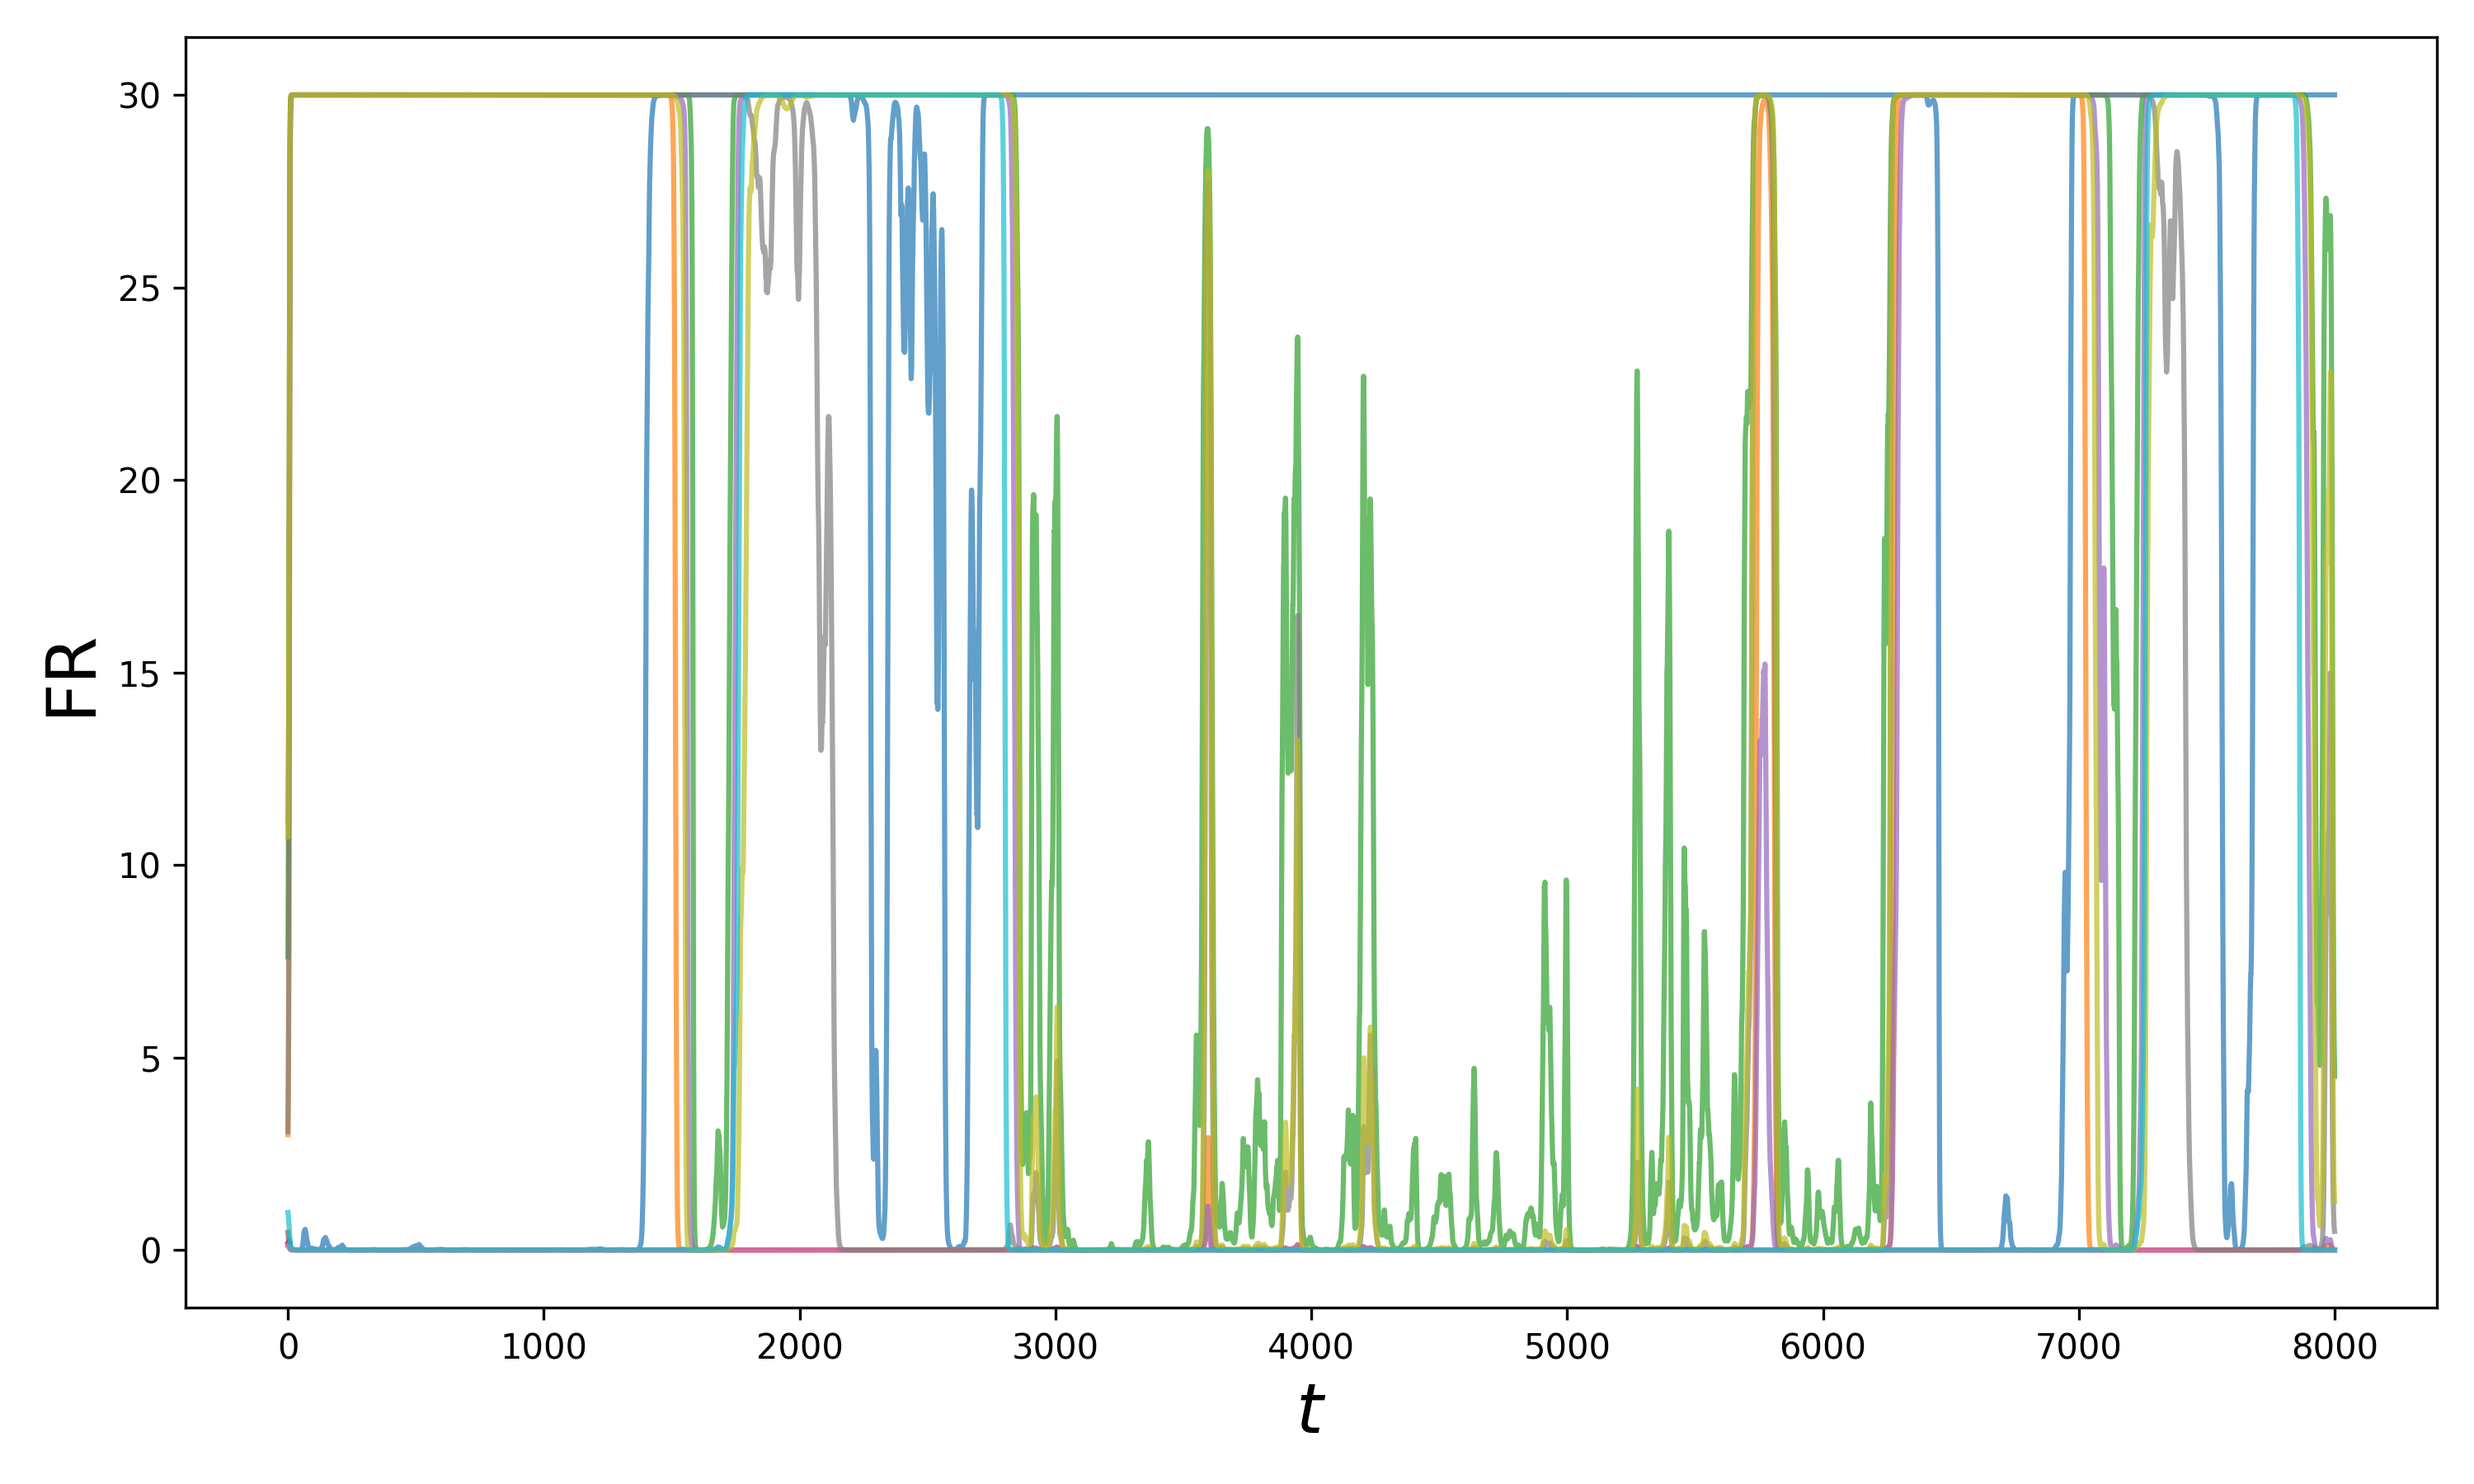
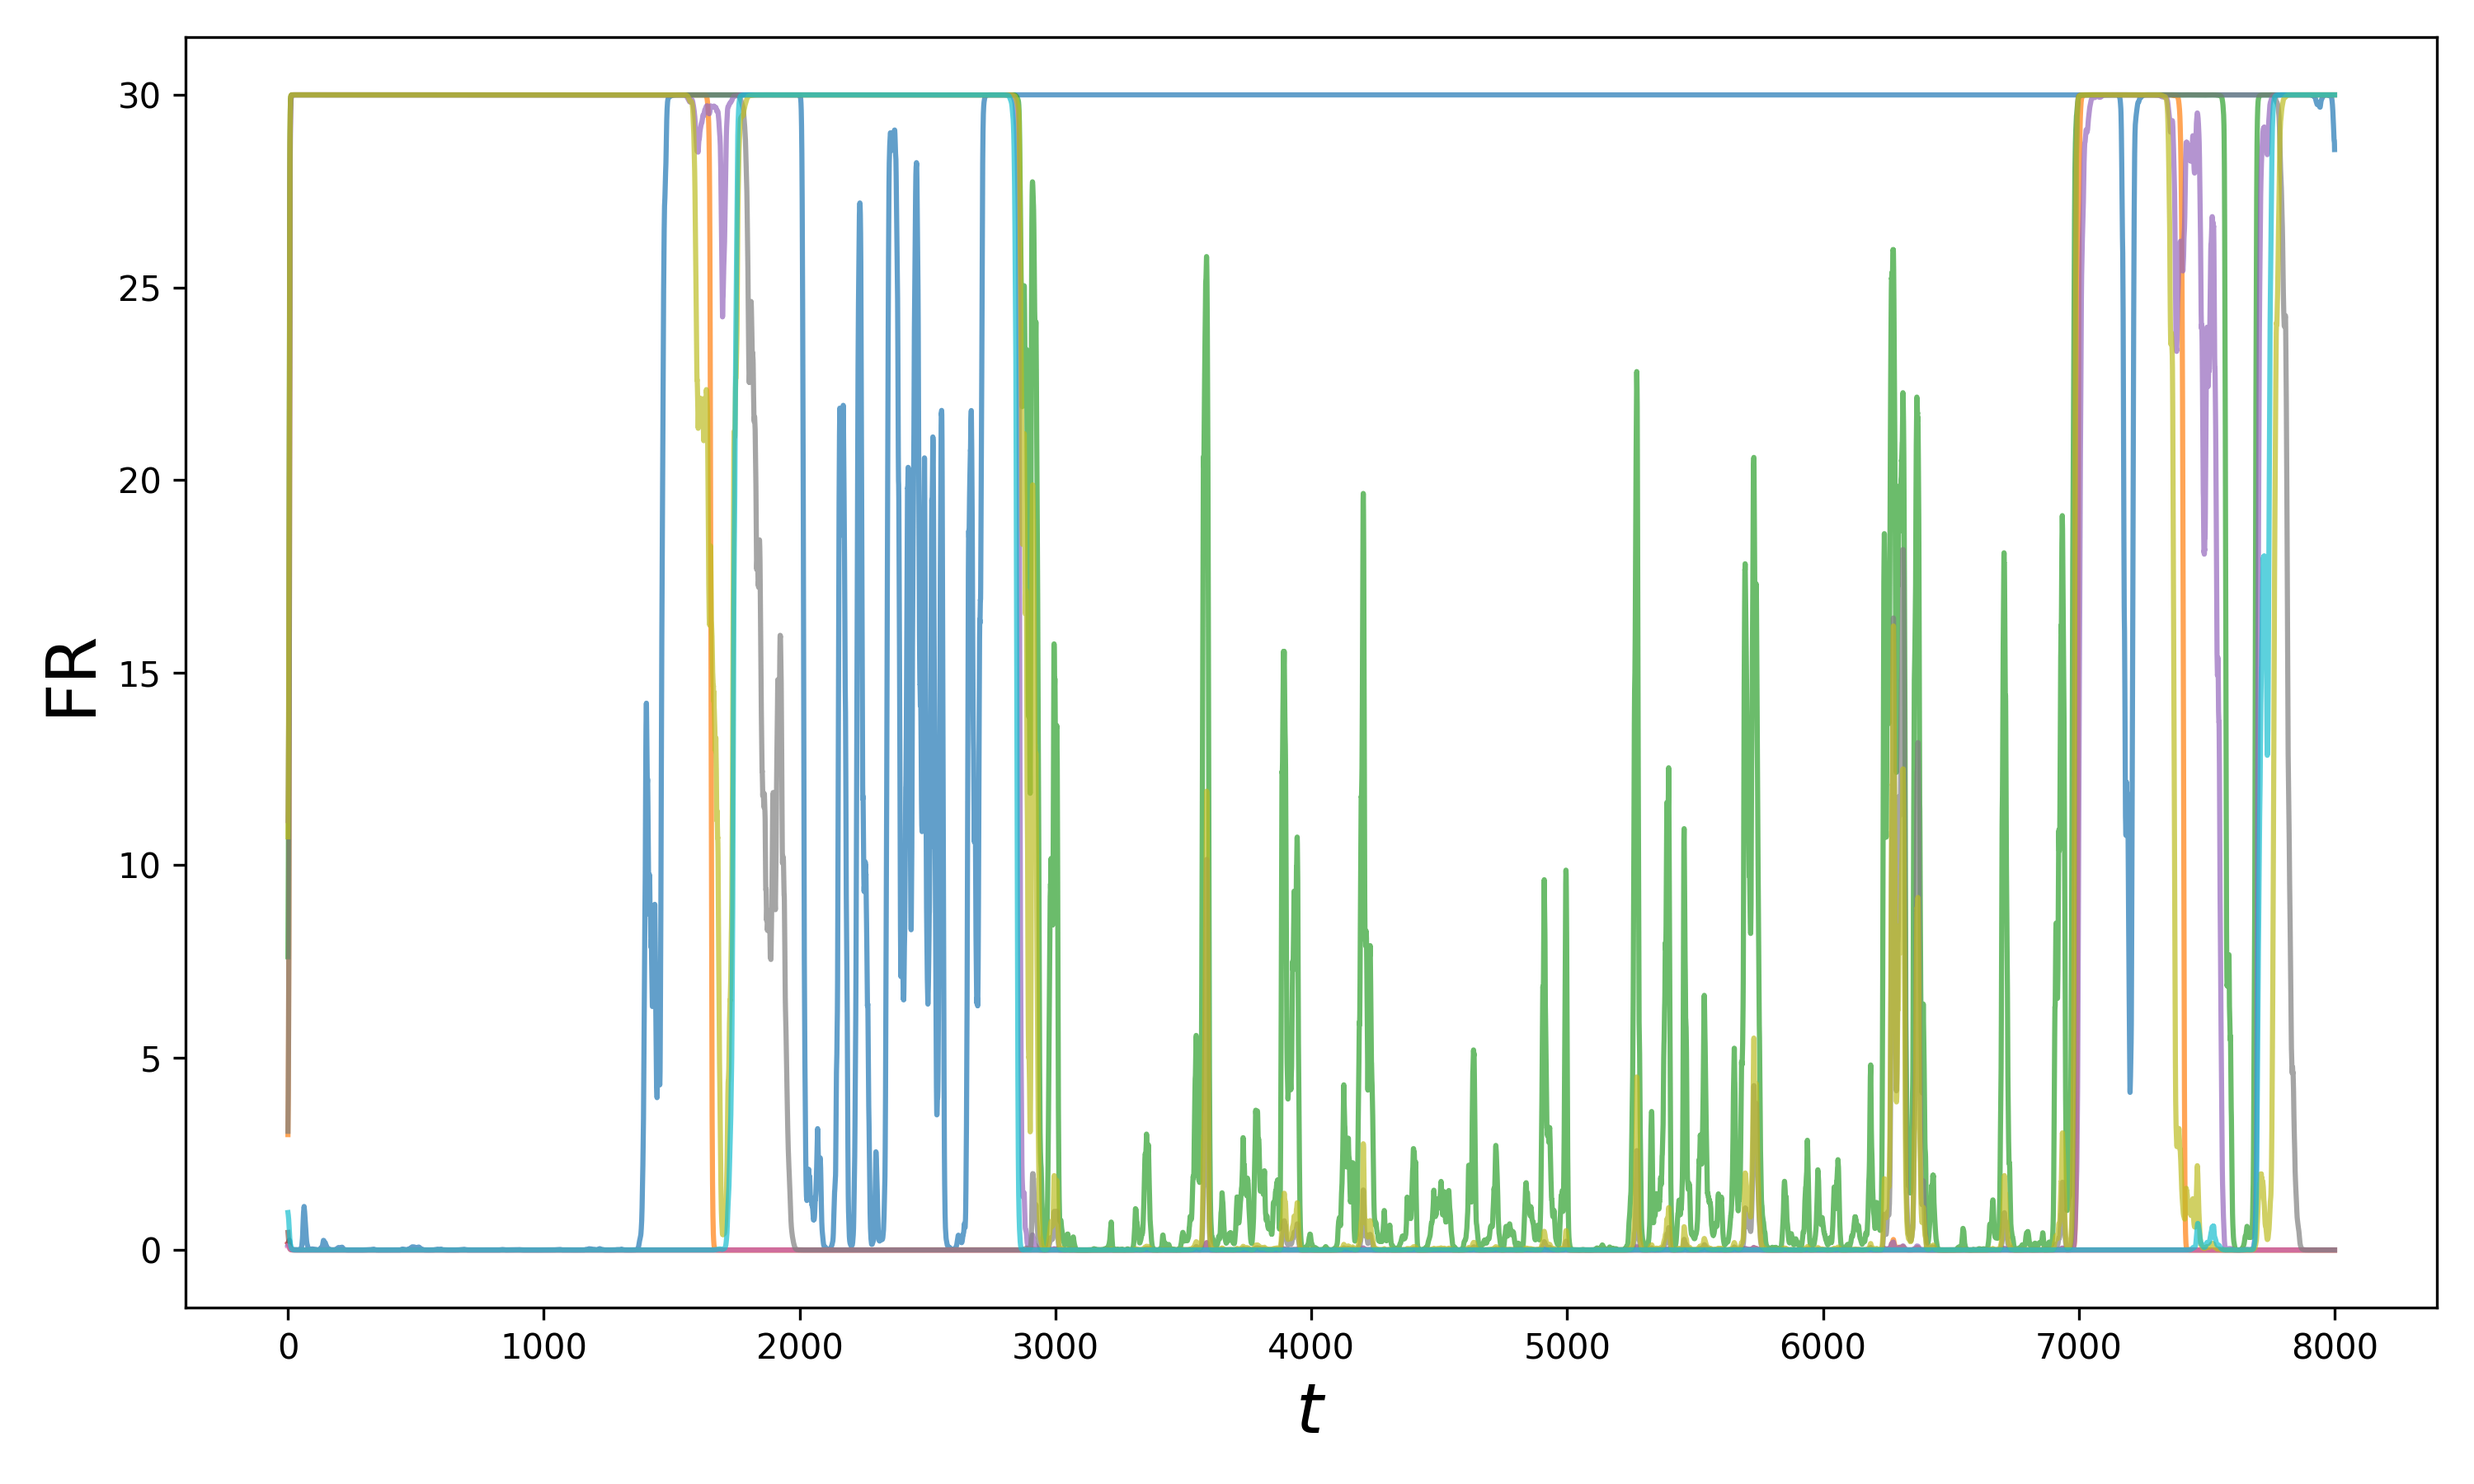
heun

Changed region(s): [[0.248, 0.0622, 0.961, 0.8711]]

diff --git a/src/correlation.py b/src/correlation.py
@@ -1,0 +1,121 @@
+"""
+Analyze the relationship between noise (ζ) and the variation of pattern overlaps using cross-correlation.
+Load ζ and firing rate files from disk, compute overlaps, and correlate with lag.
+"""
+
+import os
+import numpy as np
+import matplotlib.pyplot as plt
+from modules.dynamics import calculate_pattern_overlaps
+from modules.activation import sigmoid_function
+from parameters import (
+    N,
+    dt,
+    phi_beta,
+    phi_r_m,
+    phi_x_r,
+    g_q,
+    g_x,
+    use_numba,
+    use_g,
+    multiple_dir_name,
+    single_dir_name
+)
+
+# ----------------------------
+# Paths
+# ----------------------------
+patterns_path = os.path.join(os.path.dirname(__file__), "..", f'{single_dir_name}', 'npy', 'memory_patterns.npy')
+firing_rates_path = os.path.join(os.path.dirname(__file__), "..", f'{single_dir_name}', 'npy', 'firing_rates')
+zeta_path = os.path.join(os.path.dirname(__file__), "..", f'{single_dir_name}', 'npy', 'ou_process.npy')
+
+# ----------------------------
+# Phi and g function parameters
+# ----------------------------
+phi_params = {'r_m': phi_r_m, 'beta': phi_beta, 'x_r': phi_x_r}
+g_params = {'q_f': g_q, 'x_f': g_x}
+
+# ----------------------------
+# Load patterns
+# ----------------------------
+eta = np.load(patterns_path)
+
+# ----------------------------
+# Cross-correlation analysis using variation of overlaps
+# ----------------------------
+def cross_correlation_analysis(firing_dir, zeta_file, max_lag_ms=500, use_derivative=True):
+    """
+    Compute cross-correlation between zeta(t) and variation of pattern overlaps.
+    
+    Parameters
+    ----------
+    firing_dir : str
+        Directory containing firing rate files (.npy)
+    zeta_file : str
+        File containing zeta(t) array
+    max_lag_ms : int
+        Maximum lag to consider in milliseconds (will be converted using dt)
+    use_derivative : bool
+        If True, correlate ζ(t) with temporal derivative of overlaps
+    
+    Returns
+    -------
+    lags : np.ndarray
+        Lag vector in time units
+    corr_mean : np.ndarray
+        Cross-correlation averaged over all files
+    """
+    # load zeta
+    zeta = np.load(zeta_file)
+    
+    fnames = [f for f in os.listdir(firing_dir) if f.endswith(".npy")]
+    corr_all = []
+    
+    n_lag = int(max_lag_ms / (dt * 1000))  # convert ms to steps
+    lags = np.arange(-n_lag, n_lag + 1) * dt
+    
+    for fname in fnames:
+        firing = np.load(os.path.join(firing_dir, fname))
+        overlaps = calculate_pattern_overlaps(firing, eta, phi_params, g_params, use_numba=use_numba, use_g=use_g)
+        
+        # mean over patterns
+        overlaps_mean = overlaps.mean(axis=1)
+        
+        if use_derivative:
+            # temporal derivative to capture variation
+            overlaps_var = np.gradient(overlaps_mean, dt)
+        else:
+            overlaps_var = overlaps_mean
+        
+        # standardize
+        z_std = (zeta - np.mean(zeta)) / np.std(zeta)
+        o_std = (overlaps_var - np.mean(overlaps_var)) / np.std(overlaps_var)
+        
+        # full cross-correlation
+        corr = np.correlate(o_std, z_std, mode='full') / len(z_std)
+        
+        # select only lags within ±n_lag
+        center = len(corr) // 2
+        corr_all.append(corr[center - n_lag:center + n_lag + 1])
+    
+    # average across files
+    corr_mean = np.mean(np.stack(corr_all, axis=0), axis=0)
+    
+    return lags, corr_mean
+
+# ----------------------------
+# Plot
+# ----------------------------
+if __name__ == "__main__":
+    lags, corr_mean = cross_correlation_analysis(firing_rates_path, zeta_path, max_lag_ms=500, use_derivative=True)
+    
+    plt.figure(figsize=(8,4))
+    plt.plot(lags, corr_mean, color='b')
+    plt.axvline(0, color='k', linestyle='--', label='zero lag')
+    plt.xlabel("Lag [s]")
+    plt.ylabel("Cross-correlation")
+    plt.title("Average cross-correlation between ζ(t) and variation of pattern overlaps")
+    plt.grid(True)
+    plt.legend()
+    plt.show()
+# -----------------------------

diff --git a/src/modules/numba_dynamics.py b/src/modules/numba_dynamics.py
@@ -1,7 +1,7 @@
 """
 Numba-optimized neural network dynamics with stochastic Heun integration.
 Matches dynamics.py exactly: no interpolation of zeta.
-All arrays and computations are float32.
+All arrays and computations float32.
 """
 
 import numpy as np
@@ -78,14 +78,10 @@ def network_dynamics_brunel(u, W_S, W_A, tau, zeta_value, r_m, beta, x_r):
     return du_dt
 
 # -----------------------------
-# Stochastic Heun per mezzo-step
+# Stochastic Heun step (single-step)
 # -----------------------------
 @njit(cache=True)
 def heun_step(u, dt, W_S, W_A, tau, zeta_value, model_type, r_m, beta, x_r, dW=None):
-    """
-    Heun stochastic step for network dynamics (RK2).
-    For deterministic part, dW is ignored (kept for OU compatibility).
-    """
     du1 = network_dynamics_recanatesi(u, W_S, W_A, tau, zeta_value, r_m, beta, x_r) if model_type == 0 else \
           network_dynamics_brunel(u, W_S, W_A, tau, zeta_value, r_m, beta, x_r)
     u_predict = u + dt * du1
@@ -103,7 +99,7 @@ def ou_heun_step(z, dt_step, tau_zeta, zeta_bar, sigma_zeta, dW):
     return z_new
 
 # -----------------------------
-# Full network simulation (Heun stochastic)
+# Full network simulation (Heun single-step)
 # -----------------------------
 @njit(cache=True)
 def simulate_network_numba(W_S, W_A, initial_condition, n_steps, dt, tau,
@@ -123,26 +119,19 @@ def simulate_network_numba(W_S, W_A, initial_condition, n_steps, dt, tau,
         zeta_array[:] = np.float32(constant_zeta)
     else:
         zeta_array[0] = np.float32(zeta_bar)
-        half_dt = np.float32(0.5) * dt
-        sqrt_half_dt = np.sqrt(half_dt)
 
     for i in range(1, n_steps):
-        # --- compute zeta ---
         if use_ou:
-            dW1 = np.float32(np.random.normal(0.0, 1.0) * sqrt_half_dt)
-            dW2 = np.float32(np.random.normal(0.0, 1.0) * sqrt_half_dt)
-            z_mid = ou_heun_step(zeta_array[i-1], half_dt, tau_zeta, zeta_bar, sigma_zeta, dW1)
-            z_next = ou_heun_step(z_mid, half_dt, tau_zeta, zeta_bar, sigma_zeta, dW2)
+            dW = np.float32(np.random.normal(0.0, 1.0) * np.sqrt(dt))
+            z_n = zeta_array[i-1]
+            z_next = ou_heun_step(z_n, dt, tau_zeta, zeta_bar, sigma_zeta, dW)
             zeta_array[i] = z_next
-            zeta_n = zeta_array[i-1]
-            zeta_m = z_mid
+            zeta_n = z_n
         else:
             zeta_n = np.float32(constant_zeta)
-            zeta_m = np.float32(constant_zeta)
-            z_next = np.float32(constant_zeta)
+            z_next = zeta_n
             zeta_array[i] = z_next
 
-        # --- Heun for network dynamics ---
         u = heun_step(u, dt, W_S, W_A, tau, zeta_n, model_type, r_m, beta, x_r)
         u_hist[i, :] = u
 

diff --git a/src/modules/dynamics.py b/src/modules/dynamics.py
@@ -8,7 +8,7 @@ import matplotlib.pyplot as plt
 from modules.activation import sigmoid_function, relu_function, step_function
 
 # ---------------------------
-# Ornstein-Uhlenbeck Heun per mezzo-passo
+# Ornstein-Uhlenbeck Heun (single-step sHeun)
 # ---------------------------
 def _ou_heun_step(z, dt_step, tau_zeta, zeta_bar, sigma_zeta, dW):
     g = np.sqrt(np.float32(2.0)) * np.float32(sigma_zeta) / np.sqrt(np.float32(tau_zeta))
@@ -52,12 +52,14 @@ def network_dynamics_recanatesi(u, W_S, W_A, activation_fn, tau, zeta_value=1.0)
     du_dt = (-u + W_S @ phi_u + zeta_value * (W_A @ phi_u)) / tau
     return du_dt.astype(np.float32)
 
+
 def network_dynamics_brunel(u, W_S, W_A, activation_fn, tau, zeta_value=1.0):
     tau = np.float32(tau)
     zeta_value = np.float32(zeta_value)
     total_input = W_S @ u + zeta_value * (W_A @ u)
     du_dt = (-u + activation_fn(total_input)) / tau
     return du_dt.astype(np.float32)
+
 
 def network_dynamics(u, W_S, W_A, activation_fn, tau, zeta_value=1.0, model_type="recanatesi"):
     if model_type == "recanatesi":
@@ -130,16 +132,13 @@ def simulate_network(W_S,
         zeta_bar = np.float32(ou_params['zeta_bar'])
         sigma_zeta = np.float32(ou_params['sigma_zeta'])
         zeta_array[0] = zeta_bar
-        half_dt = 0.5 * dt
-        sqrt_half_dt = np.sqrt(half_dt).astype(np.float32)
 
     for i in range(1, n_steps):
         if use_ou:
-            dW1 = np.float32(np.random.normal(0.0, 1.0) * sqrt_half_dt)
-            dW2 = np.float32(np.random.normal(0.0, 1.0) * sqrt_half_dt)
+            # single-step stochastic Heun for OU (sHeun canonical): one Wiener increment per dt
+            dW = np.float32(np.random.normal(0.0, 1.0) * np.sqrt(dt))
             z_n = zeta_array[i-1]
-            z_mid = _ou_heun_step(z_n, half_dt, tau_zeta, zeta_bar, sigma_zeta, dW1)
-            z_next = _ou_heun_step(z_mid, half_dt, tau_zeta, zeta_bar, sigma_zeta, dW2)
+            z_next = _ou_heun_step(z_n, dt, tau_zeta, zeta_bar, sigma_zeta, dW)
             zeta_array[i] = z_next
             zeta_n = z_n
         else:
@@ -147,7 +146,7 @@ def simulate_network(W_S,
             z_next = zeta_n
             zeta_array[i] = z_next
 
-        # Heun per u
+        # Heun per u (deterministic Heun using zeta at n for predictor, zeta_next for corrector)
         k1 = network_dynamics(u, W_S, W_A, activation_fn, tau, zeta_value=zeta_n, model_type=model_type)
         u_pred = u + dt * k1
         k2 = network_dynamics(u_pred, W_S, W_A, activation_fn, tau, zeta_value=z_next, model_type=model_type)
@@ -250,3 +249,4 @@ def plot_network_dynamics(t, u, zeta, neuron_indices=None, max_display=10,
 
     plt.tight_layout()
     return fig
+

diff --git a/src/parameters.py b/src/parameters.py
@@ -71,7 +71,7 @@ model_type = "recanatesi"   # Dynamics model: "recanatesi" or "brunel"
 
 # Ornstein-Uhlenbeck process parameters for ζ(t)
 use_ou = True          # Whether to use Ornstein-Uhlenbeck process for ζ(t)
-tau_zeta = 20.0          # OU time constant
+tau_zeta = 10.0          # OU time constant
 zeta_bar = 0.65          # OU mean value (0.6 for p = 5, q = 3)
 sigma_zeta = 0.65        # OU noise intensity (0.3 for p = 5, q = 3)
 constant_zeta = 1.     # Constant ζ value when OU is not used
@@ -86,7 +86,7 @@ show_sim_plots = False  # Whether to show individual plots for each variable
 plot_connectivity_matrices = False,
 plot_heatmap= True,
 verbose = False
-single_dir_name = "simulation_results_new_half"
+single_dir_name = "simulation_results_new"
 multiple_dir_name = "multiple_simulations"
 
 # Number of runs
